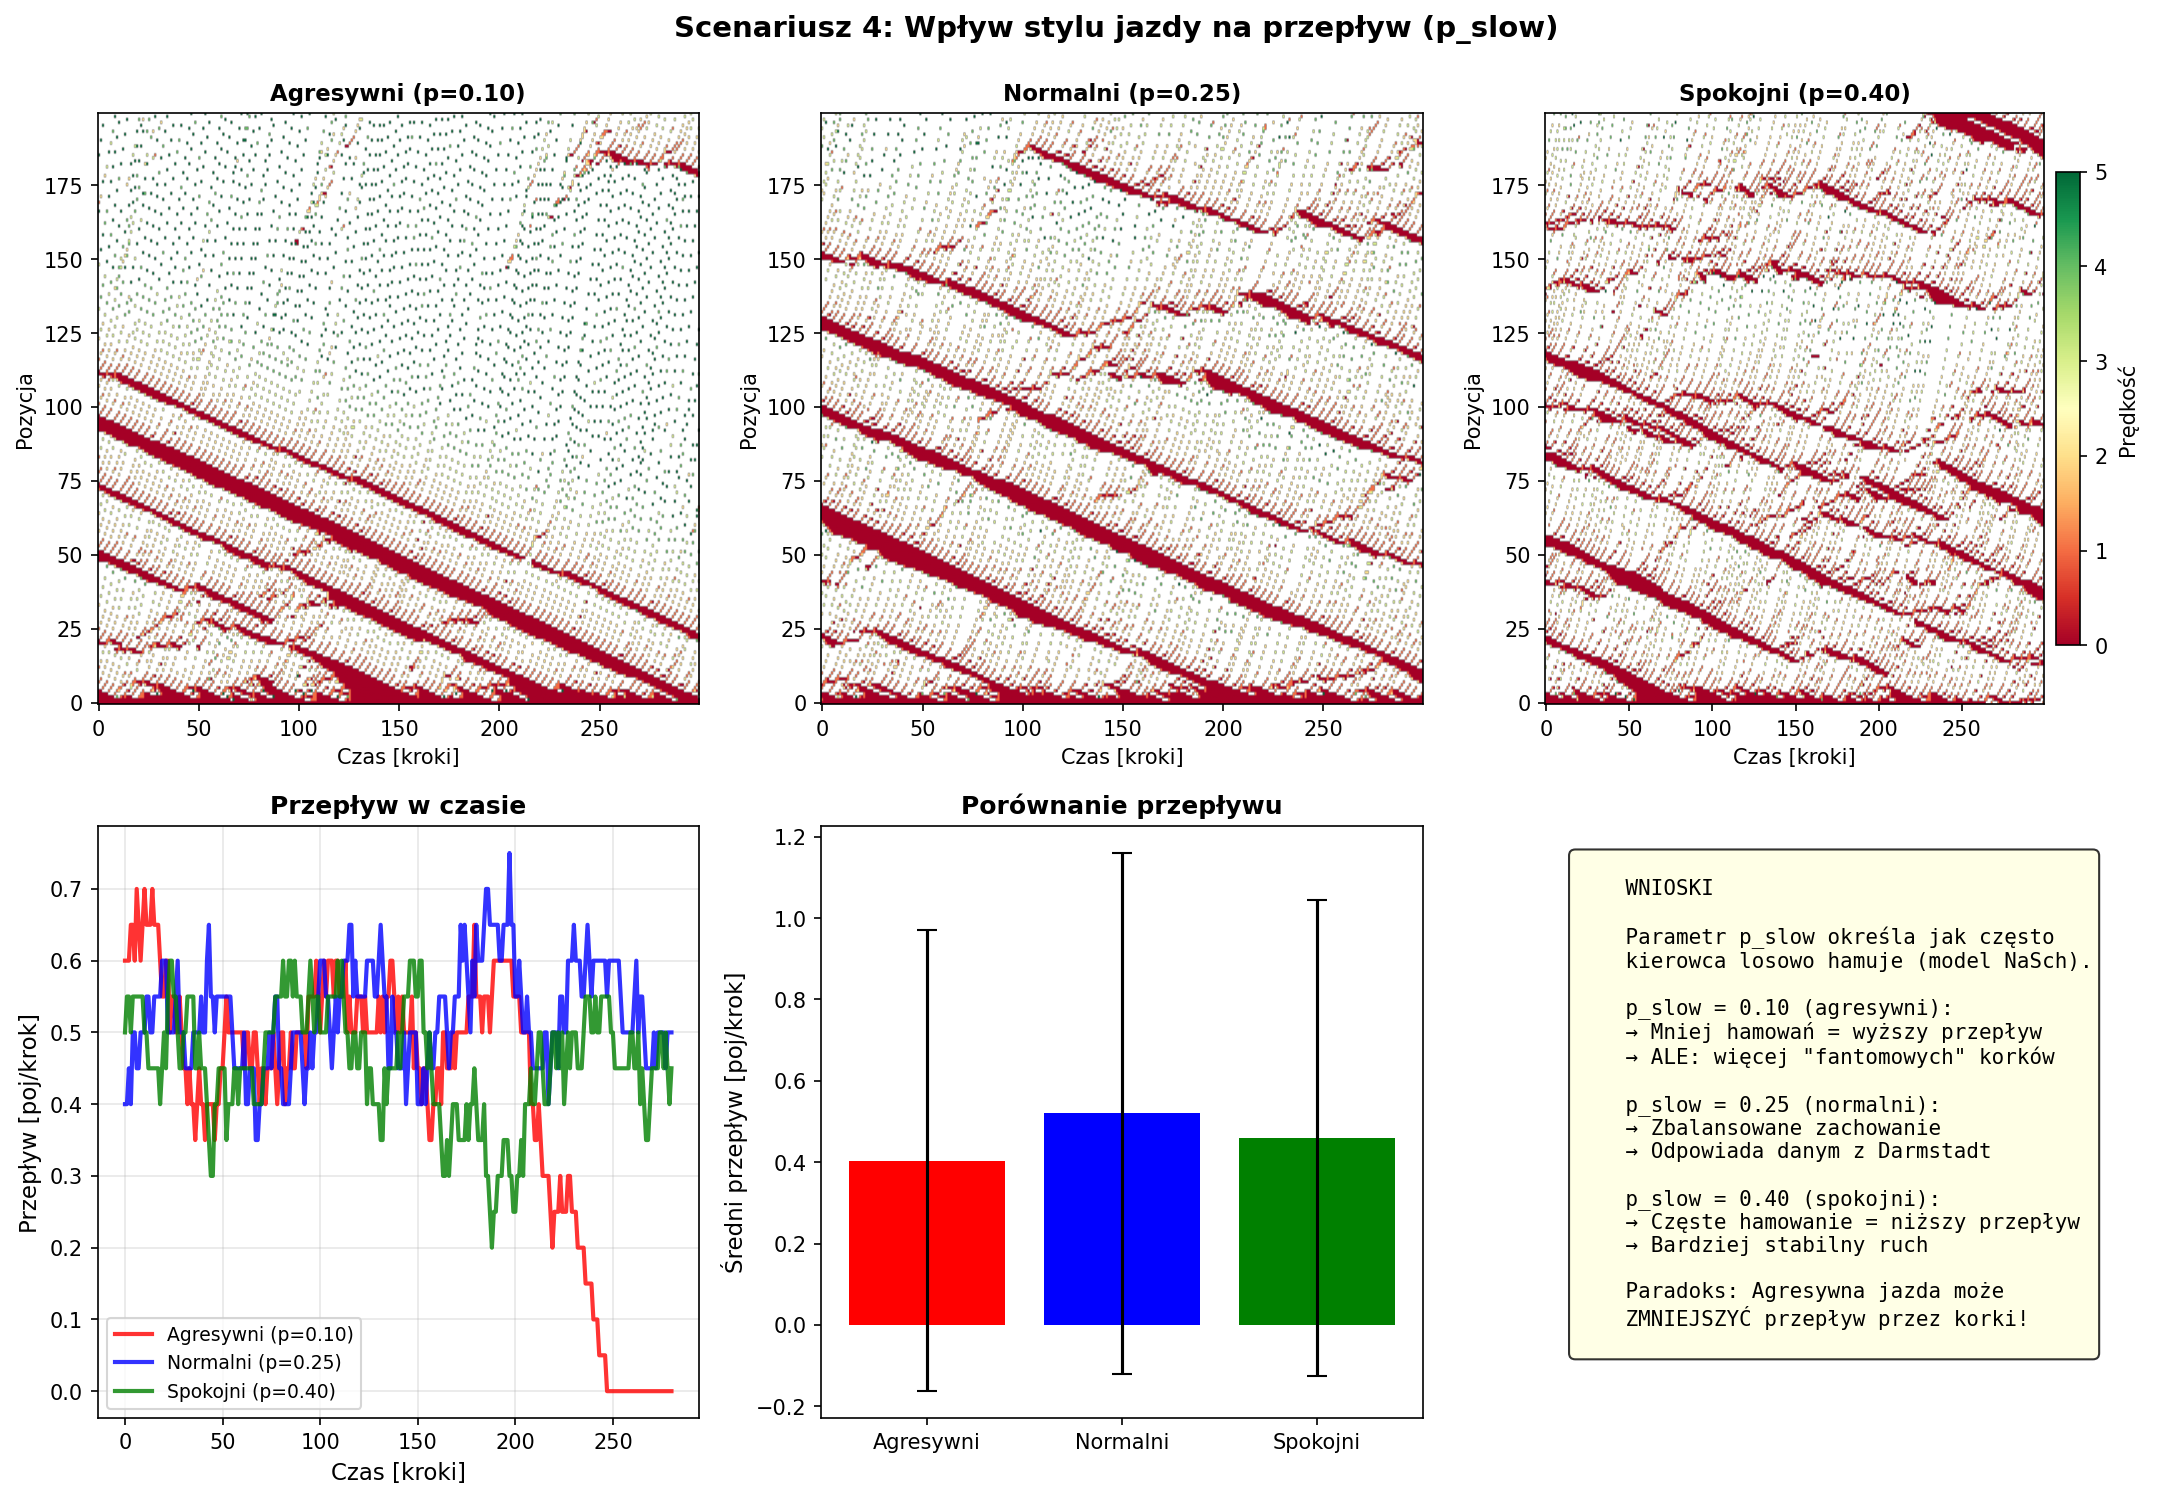
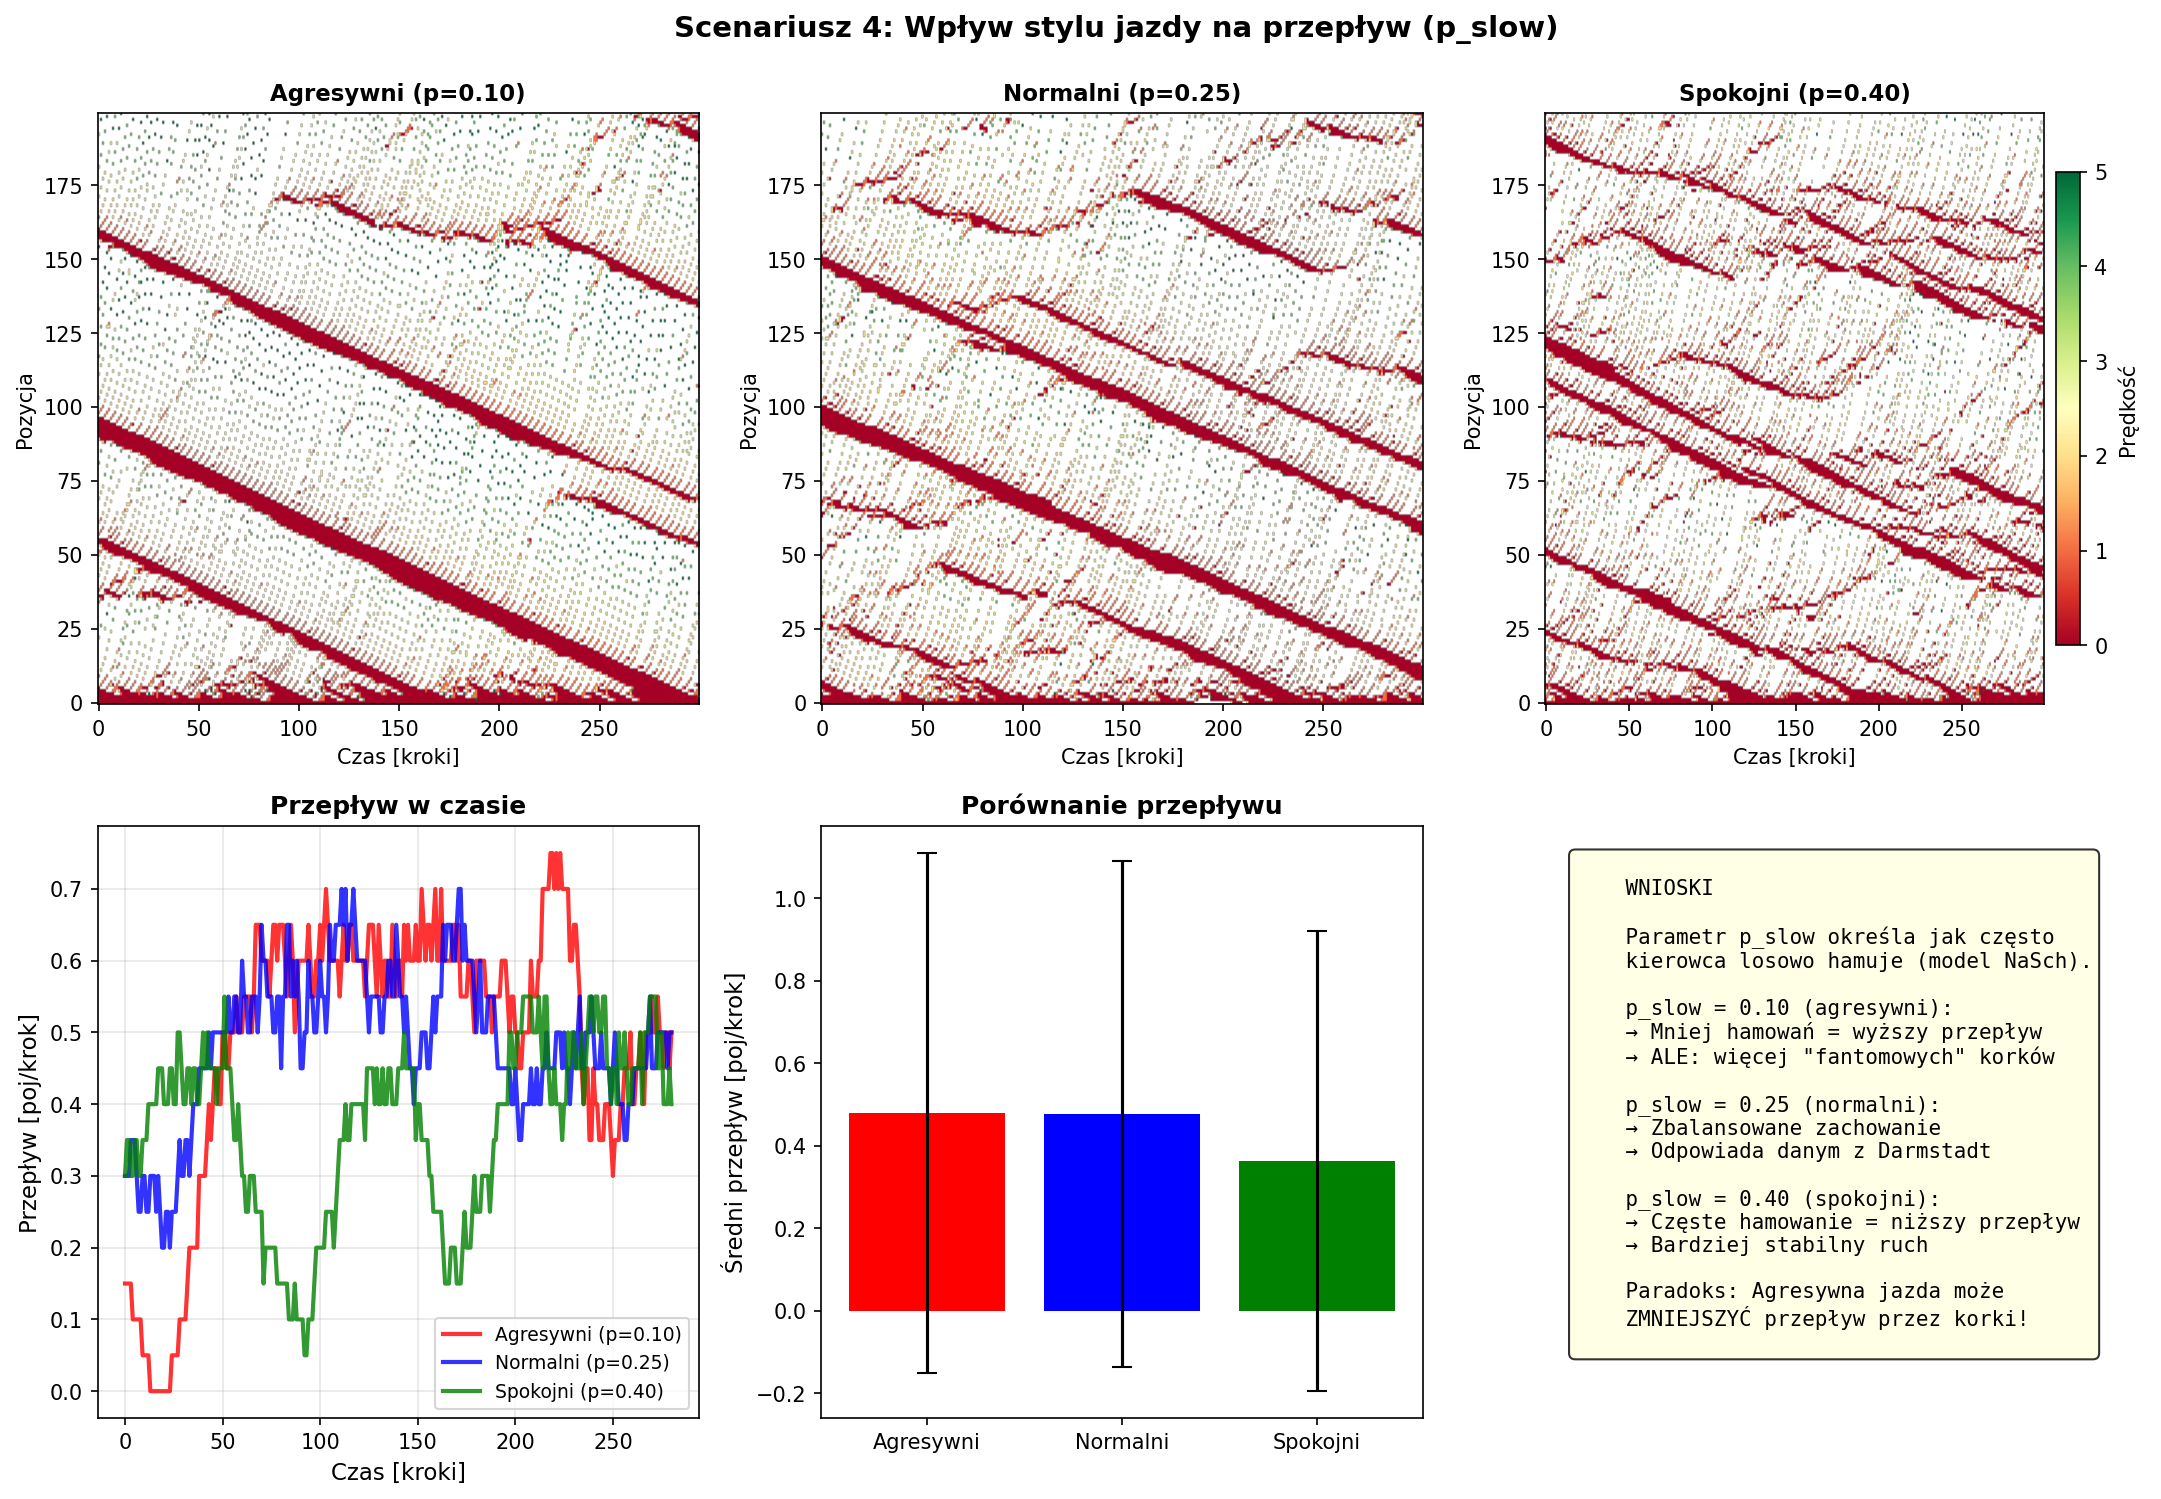
Extended gap_rear range

diff --git a/src/config.py b/src/config.py
@@ -11,6 +11,6 @@ P_SLOW = 0.25             # Prawdopodobieństwo losowego zwolnienia (parametr p 
 # Parametry zmiany pasa
 P_CHANGE = 0.525           # Prawdopodobieństwo, że kierowca podejmie decyzję o zmianie pasa, gdy warunki są sprzyjające [0.0 - 1.0]
 V_STRAT = 1.0            # Wymagana motywacja do zmiany pasa (minimalna strata prędkości) [komórki/krok]
-GAP_REAR = 2             # Minimalny bezpieczny odstęp (bufor) za pojazdem zmieniającym pas [komórki]
+GAP_REAR = 1             # Minimalny bezpieczny odstęp (bufor) za pojazdem zmieniającym pas [komórki]
 MAX_SPEED = 5            # Maksymalna prędkość w modelu [komórki/krok]
 REACTION_DELAY = 1       # Opóźnienie reakcji kierowcy [kroki], 0 = bez opóźnienia, 1 = ~1.6s

diff --git a/calibrate_darmstadt.py b/calibrate_darmstadt.py
@@ -39,7 +39,7 @@ class CalibrationConfig:
     
     def __post_init__(self):
         if self.gap_rear_values is None:
-            self.gap_rear_values = [2]
+            self.gap_rear_values = [1, 2]
         if self.reaction_delay_values is None:
             self.reaction_delay_values = [0, 1]
         if self.densities is None:

diff --git a/scenarios.py b/scenarios.py
@@ -19,7 +19,7 @@ from simulation.pygame_view import PygameView
 CALIBRATED = {
     'p_slow': 0.25,
     'p_change': 0.525,
-    'gap_rear': 2,
+    'gap_rear': 1,
     'reaction_delay': 1
 }
 
